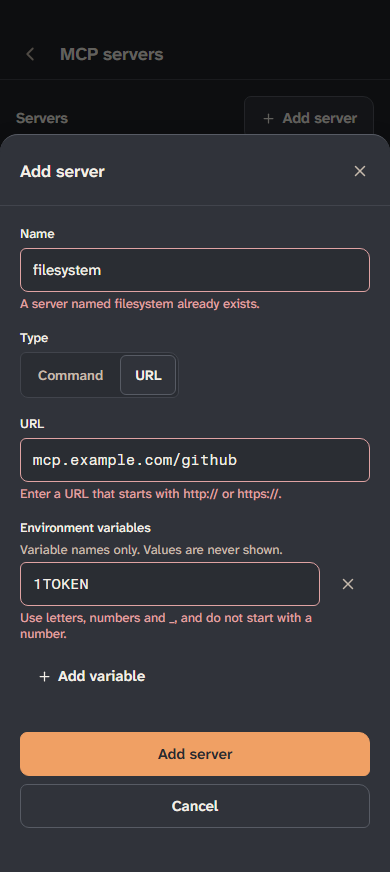
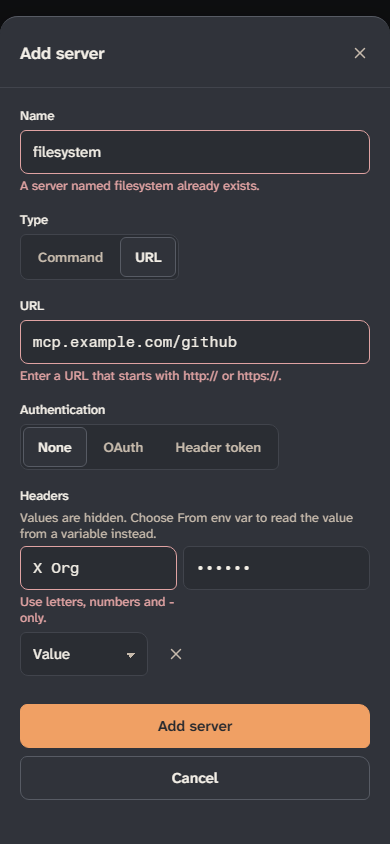
Mockups: MCP server edit form and OAuth sign-in states

diff --git a/design/remote-and-settings/app.js b/design/remote-and-settings/app.js
@@ -62,13 +62,8 @@
         { id: 'no-web', name: 'no-web', builtin: false, tools: TOOLS.filter((t) => !t.startsWith('web_')) },
       ],
       appr: { read_file: 'allow', list_files: 'allow', search: 'allow', edit_file: 'ask', write_file: 'ask', run_command: 'ask', web_fetch: 'deny', web_search: 'allow' } },
-    srvOpen: new Set(), srvTry: false, envs: [''], view: '',
-    servers: [
-      { id: 'filesystem', name: 'filesystem', kind: 'cmd', cmd: 'npx', args: '-y @modelcontextprotocol/server-filesystem /home/maya/projects/garden-api', on: true, error: '', tools: [['read_text_file', true], ['list_directory', true], ['search_files', true], ['edit_file', false]] },
-      { id: 'github', name: 'github', kind: 'url', url: 'https://mcp.example.com/github', on: true, error: '', tools: [['list_issues', true], ['get_pull_request', true], ['create_issue_comment', false]] },
-      { id: 'garden-api', name: 'garden-api', kind: 'cmd', cmd: 'node', args: './tools/garden-mcp.js', on: true, error: "Exited with code 1: Cannot find module './tools/garden-mcp.js'", tools: [] },
-      { id: 'sqlite', name: 'sqlite', kind: 'cmd', cmd: 'uvx', args: 'mcp-server-sqlite --db-path ./garden.db', on: false, error: '', tools: [['query', true], ['list_tables', true]] },
-    ],
+    srvOpen: new Set(), srvTry: false, envs: [], view: '',
+    servers: mkServers(), toks: [{ n: '', m: 'value', v: '' }], hdrs: [],
     skillsNone: false,
     skills: [
       { id: 'release-notes', name: 'release-notes', desc: 'Draft release notes from the merged pull requests.', where: 'Project', dir: '.claude/skills', on: true },
@@ -191,39 +186,113 @@
       sec('Tools', TOOLS.map((t) => chk(x.tools.includes(t), t, 'tsTool', t, x.builtin)).join('')) +
       (x.builtin ? '' : `<div class="actions">${btn('Delete toolset', { kind: 'danger', icon: 'trash-2', act: 'dlg', arg: 'delTs:' + x.id, disabled: isMain })}${isMain ? '<span class="hint">Main chat uses this toolset. Choose another one first.</span>' : ''}</div>`);
   }
-  const srvStatus = (v) => (!v.on ? 'stopped' : v.error ? 'error' : 'running');
+  function ent(n, m, v) { return { n, m, v }; }
+  const VAR_RE = /^[A-Za-z_][A-Za-z0-9_]*$/, HDR_RE = /^[A-Za-z0-9-]+$/;
+  const VAR_MSG = 'Use letters, numbers and _, and do not start with a number.';
+  function mkServers() {
+    return [
+      { id: 'filesystem', name: 'filesystem', kind: 'cmd', cmd: 'npx', args: '-y @modelcontextprotocol/server-filesystem /home/maya/projects/garden-api', cwd: '/home/maya/projects/garden-api', env: [ent('LOG_LEVEL', 'value', 'info'), ent('API_TOKEN', 'var', 'GARDEN_TOKEN')], timeout: 60, on: true, error: '', tools: [['read_text_file', true], ['list_directory', true], ['search_files', true], ['edit_file', false]] },
+      { id: 'github', name: 'github', kind: 'url', url: 'https://mcp.example.com/github', auth: 'oauth', o: 'in', account: 'maya@example.com', hdr: [ent('X-Org', 'value', 'garden')], tok: null, timeout: 30, on: true, error: '', tools: [['list_issues', true], ['get_pull_request', true], ['create_issue_comment', false]] },
+      { id: 'docs', name: 'docs', kind: 'url', url: 'https://mcp.example.com/docs', auth: 'oauth', o: 'needed', account: '', hdr: [], tok: null, timeout: 60, on: true, error: '', tools: [] },
+      { id: 'garden-api', name: 'garden-api', kind: 'cmd', cmd: 'node', args: './tools/garden-mcp.js', cwd: '', env: [], timeout: 60, on: true, error: "Exited with code 1: Cannot find module './tools/garden-mcp.js'", tools: [] },
+      { id: 'sqlite', name: 'sqlite', kind: 'cmd', cmd: 'uvx', args: 'mcp-server-sqlite --db-path ./garden.db', cwd: '', env: [], timeout: 60, on: false, error: '', tools: [['query', true], ['list_tables', true]] },
+    ];
+  }
+  const isOauth = (v) => v.kind === 'url' && v.auth === 'oauth';
+  const srvStatus = (v) => (!v.on ? 'stopped' : v.error ? 'error' : isOauth(v) ? (v.o === 'in' ? 'running' : v.o === 'expired' ? 'expired' : 'needed') : 'running');
   const srvLine = (v) => (v.kind === 'url' ? v.url : (v.cmd + ' ' + (v.args || '')).trim());
   function pageMcp() {
     const cards = M.servers.map((v) => {
       const st = srvStatus(v), open = M.srvOpen.has(v.id);
-      const pl = st === 'running' ? pill('Running', 'ok') : st === 'error' ? pill('Error', 'danger') : pill('Stopped', 'off');
+      const pl = st === 'running' ? pill('Running', 'ok') : st === 'error' ? pill('Error', 'danger') : st === 'needed' ? pill('Sign-in needed', 'attn') : st === 'expired' ? pill('Sign-in expired', 'attn') : pill('Stopped', 'off');
+      const signBtn = (st === 'needed' && v.o !== 'waiting') ? btn('Sign in', { kind: 'primary', act: 'srvSignIn', arg: v.id }) : st === 'expired' ? btn('Sign in again', { kind: 'primary', act: 'srvSignIn', arg: v.id }) : '';
       let body = '';
       if (st === 'error') body += `<div class="srv-err">${ic('circle-alert', 15)}<span>${v.error}</span></div>`;
+      if (st === 'needed' && v.o === 'waiting') body += `<div class="srv-wait">${ic('loader', 15, 'spin')}<span class="grow">Waiting for sign-in in your browser</span>${btn('Cancel', { act: 'srvCancel', arg: v.id })}</div>`;
       if (open) {
-        body += st === 'running' ? (v.tools.map(([n, on]) => `<div class="mrow"><div class="grow mono" style="font-size:13.6px">${n}</div>${sw(on, 'Tool ' + n, 'srvTool', false, v.id + '|' + n)}</div>`).join('') || '<div class="srv-note">The server has not listed any tools.</div>')
-          : `<div class="srv-note">${st === 'error' ? 'No tools are listed while the server has an error.' : 'Turn the server on to list its tools.'}</div>`;
+        if (st === 'running') {
+          if (isOauth(v)) body += `<div class="srv-wait">${ic('circle-check', 15)}<span class="grow">${v.account ? 'Signed in as <b>' + v.account + '</b>' : 'Signed in'}</span>${btn('Sign out', { act: 'srvSignOut', arg: v.id })}</div>`;
+          body += (v.tools.map(([n, on]) => `<div class="mrow"><div class="grow mono" style="font-size:13.6px">${n}</div>${sw(on, 'Tool ' + n, 'srvTool', false, v.id + '|' + n)}</div>`).join('') || '<div class="srv-note">The server has not listed any tools.</div>');
+        } else {
+          body += `<div class="srv-note">${{ error: 'No tools are listed while the server has an error.', needed: 'Sign in to list its tools.', expired: 'Tools are not available until you sign in again.', stopped: 'Turn the server on to list its tools.' }[st]}</div>`;
+        }
       }
-      return `<div class="pcard"><div class="srv-h"><button class="srv-main" aria-expanded="${open}" ${A('srvOpen', v.id)}>${ic(open ? 'chevron-down' : 'chevron-right', 16)}<span class="grow"><div class="t">${v.name}</div><div class="s mono">${srvLine(v)}</div></span></button>${pl}${sw(v.on, 'Server ' + v.name, 'srvOn', false, v.id)}</div>${body}</div>`;
+      return `<div class="pcard"><div class="srv-h"><button class="srv-main" aria-expanded="${open}" ${A('srvOpen', v.id)}>${ic(open ? 'chevron-down' : 'chevron-right', 16)}<span class="grow"><div class="t">${v.name}</div><div class="s mono">${srvLine(v)}</div></span></button>${pl}${signBtn}${btn('Edit', { cls: 'quiet', act: 'editSrv', arg: v.id })}${sw(v.on, 'Server ' + v.name, 'srvOn', false, v.id)}</div>${body}</div>`;
     }).join('');
     return sec('Servers', cards, btn('Add server', { icon: 'plus', act: 'addSrv' }));
   }
-  function srvErrors() {
-    const f = M.f, e = { name: '', cmd: '', url: '', env: M.envs.map(() => '') };
-    const n = f.sname.trim();
-    if (n || M.srvTry) e.name = !n ? 'Enter a name.' : !NAME_RE.test(n) ? 'Use letters, numbers, - and _ only.' : M.servers.some((x) => x.name === n) ? `A server named ${n} already exists.` : '';
-    if (f.skind === 'cmd') { if (M.srvTry && !f.scmd.trim()) e.cmd = 'Enter a command.'; }
-    else { const u = f.surl.trim(); if (u || M.srvTry) e.url = !u ? 'Enter a URL.' : /^https?:\/\/[^\s/]+\S*$/.test(u) ? '' : 'Enter a URL that starts with http:// or https://.'; }
-    M.envs.forEach((v, i) => { const t = v.trim(); if (t && !/^[A-Za-z_][A-Za-z0-9_]*$/.test(t)) e.env[i] = 'Use letters, numbers and _, and do not start with a number.'; });
+  /* server form (add and edit share it) */
+  function loadForm(v) {
+    const f = M.f, cp = (l) => (l || []).map((e) => ({ ...e }));
+    f.sname = v ? v.name : ''; f.skind = v ? v.kind : 'cmd'; f.scmd = (v && v.cmd) || ''; f.sargs = (v && v.args) || ''; f.scwd = (v && v.cwd) || '';
+    f.surl = (v && v.url) || ''; f.sauth = (v && v.auth) || 'none'; f.stimeout = String(v ? v.timeout : 60);
+    M.envs = cp(v && v.env); M.hdrs = cp(v && v.hdr); M.toks = [v && v.tok ? { ...v.tok } : ent('', 'value', '')];
+  }
+  function formToServer() {
+    const f = M.f, clean = (l) => l.filter((e) => e.n.trim() || e.v.trim()).map((e) => ({ n: e.n.trim(), m: e.m, v: e.v.trim() }));
+    const o = { name: f.sname.trim(), kind: f.skind, timeout: +f.stimeout };
+    if (f.skind === 'cmd') return Object.assign(o, { cmd: f.scmd.trim(), args: f.sargs.trim(), cwd: f.scwd.trim(), env: clean(M.envs) });
+    return Object.assign(o, { url: f.surl.trim(), auth: f.sauth, hdr: clean(M.hdrs), tok: f.sauth === 'token' ? { n: '', m: M.toks[0].m, v: M.toks[0].v.trim() } : null });
+  }
+  function entErr(en, named, nameRe, nameMsg) {
+    const e = { n: '', v: '' }, v = en.v.trim(), n = en.n.trim();
+    if (named && !n && !v) return e;
+    if (named) e.n = !n ? 'Enter a name.' : !nameRe.test(n) ? nameMsg : '';
+    if (en.m === 'var') e.v = !v ? 'Enter a variable name.' : !VAR_RE.test(v) ? VAR_MSG : '';
+    else e.v = !v ? 'Enter a value.' : '';
     return e;
   }
+  function srvErrors(all) {
+    const f = M.f, self = M.dlg && M.dlg.edit;
+    const e = { name: '', cmd: '', url: '', timeout: '', env: M.envs.map((x) => entErr(x, true, VAR_RE, VAR_MSG)), hdr: M.hdrs.map((x) => entErr(x, true, HDR_RE, 'Use letters, numbers and - only.')), tok: entErr(M.toks[0], false) };
+    const n = f.sname.trim();
+    e.name = !n ? 'Enter a name.' : !NAME_RE.test(n) ? 'Use letters, numbers, - and _ only.' : M.servers.some((x) => x.name === n && x.id !== self) ? `A server named ${n} already exists.` : '';
+    if (f.skind === 'cmd') { if (!f.scmd.trim()) e.cmd = 'Enter a command.'; }
+    else { const u = f.surl.trim(); e.url = !u ? 'Enter a URL.' : /^https?:\/\/[^\s/]+\S*$/.test(u) ? '' : 'Enter a URL that starts with http:// or https://.'; }
+    const t = f.stimeout.trim(); e.timeout = !t ? 'Enter a number of seconds.' : !/^\d+$/.test(t) || +t < 1 || +t > 600 ? 'Enter a whole number of seconds from 1 to 600.' : '';
+    if (f.skind === 'cmd') { e.hdr = []; e.tok = { n: '', v: '' }; } else { e.env = []; }
+    if (f.skind === 'url' && f.sauth !== 'token') e.tok = { n: '', v: '' };
+    if (!all) { // required-field messages wait until the owner has tried to save
+      const q = (s) => (s.startsWith('Enter a') && !s.startsWith('Enter a URL that') && !s.startsWith('Enter a whole') ? '' : s);
+      e.name = q(e.name); e.cmd = q(e.cmd); e.url = q(e.url); e.timeout = q(e.timeout);
+      [...e.env, ...e.hdr, e.tok].forEach((x) => { x.n = q(x.n); x.v = q(x.v); });
+    }
+    return e;
+  }
+  const hasErr = (e) => !!(e.name || e.cmd || e.url || e.timeout || e.tok.n || e.tok.v || [...e.env, ...e.hdr].some((x) => x.n || x.v));
+  function syncEdit() {
+    const id = M.dlg && M.dlg.edit;
+    if (!id || hasErr(srvErrors(true))) return;
+    const s2 = M.servers.find((q) => q.id === id), fresh = formToServer();
+    if (fresh.kind === 'url' && fresh.auth === 'oauth' && !(s2.kind === 'url' && s2.auth === 'oauth')) { s2.o = 'needed'; s2.account = ''; }
+    Object.assign(s2, fresh);
+  }
+  const errLine = (t) => (t ? `<div class="hint errtxt">${t}</div>` : '');
+  function kvRows(kind, list, errs, named, namePh) {
+    return list.map((en, i) => {
+      const er = errs[i] || { n: '', v: '' }, vm = en.m === 'value';
+      const nm = named ? `<div class="field ${er.n ? 'err' : ''}" style="margin:0"><label class="sr" for="f-${kind}${i}n">Name ${i + 1}</label><input id="f-${kind}${i}n" class="input" data-k="${kind}:${i}:n" value="${en.n.replace(/"/g, '&quot;')}" placeholder="${namePh}" autocomplete="off">${errLine(er.n)}</div>` : '';
+      const val = `<div class="field ${er.v ? 'err' : ''}" style="margin:0"><label class="sr" for="f-${kind}${i}v">${vm ? 'Value' : 'Variable name'} ${i + 1}</label><input id="f-${kind}${i}v" class="input" data-k="${kind}:${i}:v" ${vm ? 'type="password"' : ''} value="${en.v.replace(/"/g, '&quot;')}" placeholder="${vm ? 'Value, hidden' : 'VAR_NAME'}" autocomplete="off">${errLine(er.v)}</div>`;
+      const src = `<select class="input srcsel" data-k="${kind}:${i}:m" aria-label="Source of ${named ? 'entry ' + (i + 1) : 'the token'}"><option value="value" ${vm ? 'selected' : ''}>Value</option><option value="var" ${vm ? '' : 'selected'}>From env var</option></select>`;
+      return `<div class="kvrow">${nm}${val}${src}${named ? iconBtn('x', 'Remove entry ' + (i + 1), 'kvDel', kind + '|' + i) : ''}</div>`;
+    }).join('');
+  }
   function addSrvDialog() {
-    const e = srvErrors(), f = M.f;
-    const env = M.envs.map((v, i) => `<div class="envrow"><div class="field ${e.env[i] ? 'err' : ''}" style="margin:0"><label class="sr" for="f-env${i}">Variable name ${i + 1}</label><input id="f-env${i}" class="input" data-k="env:${i}" value="${v.replace(/"/g, '&quot;')}" placeholder="GITHUB_TOKEN" autocapitalize="characters">${e.env[i] ? `<div class="hint errtxt">${e.env[i]}</div>` : ''}</div>${iconBtn('x', 'Remove variable ' + (i + 1), 'envDel', i)}</div>`).join('');
+    const edit = M.dlg.edit, e = srvErrors(M.srvTry || !!edit), f = M.f;
+    const cmd = field('Command', '', 'scmd', { ph: 'npx', err: e.cmd }) + field('Arguments', 'Separated by spaces.', 'sargs', { ph: '-y @modelcontextprotocol/server-filesystem .' }) +
+      field('Working folder', 'Optional.', 'scwd', { ph: '/home/maya/projects/garden-api' }) +
+      `<div class="field"><div class="lab">Environment variables</div><div class="hint">Values are hidden. Choose From env var to read the value from a variable instead.</div>${kvRows('env', M.envs, e.env, true, 'NAME')}<div>${btn('Add variable', { icon: 'plus', cls: 'quiet', act: 'envAdd' })}</div></div>`;
+    const url = field('URL', '', 'surl', { ph: 'https://mcp.example.com/github', err: e.url }) +
+      `<div class="field"><div class="lab">Authentication</div><div>${seg([['none', 'None'], ['oauth', 'OAuth'], ['token', 'Header token']], f.sauth, 'srvAuth')}</div>${f.sauth === 'oauth' ? "<div class=\"hint\">Sign in from the server's row.</div>" : ''}</div>` +
+      (f.sauth === 'token' ? `<div class="field"><div class="lab">Token</div><div class="hint">Sent in the Authorization header. Hidden.</div>${kvRows('tok', M.toks, [e.tok], false)}</div>` : '') +
+      `<div class="field"><div class="lab">Headers</div><div class="hint">Values are hidden. Choose From env var to read the value from a variable instead.</div>${kvRows('hdr', M.hdrs, e.hdr, true, 'Header-Name')}<div>${btn('Add header', { icon: 'plus', cls: 'quiet', act: 'hdrAdd' })}</div></div>`;
     const body = field('Name', '', 'sname', { sans: true, ph: 'filesystem', err: e.name }) +
-      `<div class="field"><div class="lab">Type</div><div>${seg([['cmd', 'Command'], ['url', 'URL']], f.skind, 'srvKind')}</div></div>` +
-      (f.skind === 'cmd' ? field('Command', '', 'scmd', { ph: 'npx', err: e.cmd }) + field('Arguments', 'Separated by spaces.', 'sargs', { ph: '-y @modelcontextprotocol/server-filesystem .' })
-        : field('URL', '', 'surl', { ph: 'https://mcp.example.com/github', err: e.url })) +
-      `<div class="field"><div class="lab">Environment variables</div><div class="hint">Variable names only. Values are never shown.</div>${env}<div>${btn('Add variable', { icon: 'plus', cls: 'quiet', act: 'envAdd' })}</div></div>`;
+      `<div class="field"><div class="lab">Type</div><div>${seg([['cmd', 'Command'], ['url', 'URL']], f.skind, 'srvKind')}</div></div>` + (f.skind === 'cmd' ? cmd : url) +
+      field('Request timeout', 'Seconds.', 'stimeout', { ph: '60', err: e.timeout });
+    if (edit) {
+      const cur = M.servers.find((q) => q.id === edit);
+      return dlgShell(`Edit ${cur.name}`, body, `${btn('Remove server', { kind: 'danger', icon: 'trash-2', act: 'dlg', arg: 'delSrv:' + edit })}<span class="grow"></span>${btn('Done', { kind: 'primary', act: 'close' })}`);
+    }
     return dlgShell('Add server', body, `${btn('Cancel', { act: 'close' })}${btn('Add server', { kind: 'primary', act: 'srvAdd' })}`);
   }
   function pageSkills() {
@@ -470,6 +539,10 @@
         `${btn('Cancel', { act: 'close' })}${btn('Regenerate and clear pairings', { kind: 'danger', icon: 'trash-2', act: 'doRegen' })}`);
     }
     if (d.type === 'addSrv') return addSrvDialog();
+    if (d.type === 'delSrv') {
+      const x = M.servers.find((v) => v.id === d.id);
+      return dlgShell(`Remove ${x.name}?`, `<p style="margin:0">The server ${x.name} and its settings are removed. Its tools are no longer available.</p>`, `${btn('Cancel', { act: 'editSrv', arg: x.id })}${btn(`Remove ${x.name}`, { kind: 'danger', icon: 'trash-2', act: 'doDelSrv' })}`);
+    }
     if (d.type === 'delTs') {
       const x = M.tl.sets.find((v) => v.id === d.id);
       return dlgShell(`Delete ${x.name}?`, `<p style="margin:0">The toolset ${x.name} is removed from the list.</p>`, `${btn('Cancel', { act: 'close' })}${btn(`Delete ${x.name}`, { kind: 'danger', icon: 'trash-2', act: 'doDelTs' })}`);
@@ -717,7 +790,7 @@
 
   const VIEWS = {
     tools: [['tools-list', 'Toolsets'], ['tools-editor', 'Toolset editor'], ['tools-builtin', 'Built-in toolset'], ['tools-error', 'Name error']],
-    mcp: [['mcp-list', 'Server list'], ['mcp-expanded', 'Expanded server'], ['mcp-stopped', 'Stopped server'], ['mcp-error', 'Error server'], ['mcp-add', 'Add server'], ['mcp-add-error', 'Add server, errors']],
+    mcp: [['mcp-list', 'Server list'], ['mcp-expanded', 'Expanded server'], ['mcp-stopped', 'Stopped server'], ['mcp-error', 'Error server'], ['mcp-waiting', 'Waiting for sign-in'], ['mcp-signedin', 'Signed in'], ['mcp-expired', 'Sign-in expired'], ['mcp-add', 'Add server'], ['mcp-add-error', 'Add server, errors'], ['mcp-edit-cmd', 'Edit, command'], ['mcp-edit-url', 'Edit, URL'], ['mcp-edit-errors', 'Edit, errors'], ['mcp-remove', 'Remove server']],
     skills: [['skills-list', 'Skills'], ['skills-empty', 'None found']],
   };
   const curPage = () => (S.screen !== 'settings' ? '' : ph() ? S.ppage : S.page);
@@ -729,9 +802,17 @@
     if (v === 'tools-error') { ACT.openTs('no-web'); M.f.tsName = 'all'; }
     if (v === 'mcp-expanded') M.srvOpen.add('filesystem');
     if (v === 'mcp-stopped') M.srvOpen.add('sqlite');
+    if (v.startsWith('mcp-')) M.servers = mkServers();
     if (v === 'mcp-error') M.srvOpen.add('garden-api');
+    if (v === 'mcp-waiting') M.servers.find((q) => q.id === 'docs').o = 'waiting';
+    if (v === 'mcp-signedin') M.srvOpen.add('github');
+    if (v === 'mcp-expired') { M.servers.find((q) => q.id === 'github').o = 'expired'; M.srvOpen.add('github'); }
     if (v === 'mcp-add' || v === 'mcp-add-error') ACT.addSrv();
-    if (v === 'mcp-add-error') { Object.assign(M.f, { sname: 'filesystem', skind: 'url', surl: 'mcp.example.com/github' }); M.envs = ['1TOKEN']; M.srvTry = true; }
+    if (v === 'mcp-add-error') { Object.assign(M.f, { sname: 'filesystem', skind: 'url', surl: 'mcp.example.com/github', sauth: 'none', stimeout: '0' }); M.hdrs = [ent('X Org', 'value', 'garden')]; M.srvTry = true; }
+    if (v === 'mcp-edit-cmd') ACT.editSrv('filesystem');
+    if (v === 'mcp-edit-url') ACT.editSrv('github');
+    if (v === 'mcp-edit-errors') { ACT.editSrv('github'); Object.assign(M.f, { sauth: 'token', stimeout: '0' }); M.toks = [ent('', 'var', '')]; M.hdrs = [ent('X Org', 'value', 'garden'), ent('X-Team', 'var', '1TEAM')]; }
+    if (v === 'mcp-remove') M.dlg = { type: 'delSrv', id: 'filesystem' };
     if (v === 'skills-empty') M.skillsNone = true;
     M.view = v;
   }
@@ -749,18 +830,24 @@
     srvOn: (v) => { const x = M.servers.find((q) => q.id === v); x.on = !x.on; },
     srvTool: (v) => { const [id, n] = v.split('|'); const t = M.servers.find((q) => q.id === id).tools.find((q) => q[0] === n); t[1] = !t[1]; },
     skillOn: (v) => { const x = M.skills.find((q) => q.id === v); x.on = !x.on; },
-    addSrv: () => { M.f.sname = M.f.scmd = M.f.sargs = M.f.surl = ''; M.f.skind = 'cmd'; M.envs = ['']; M.srvTry = false; openDlg({ type: 'addSrv' }); },
+    addSrv: () => { loadForm(null); M.srvTry = false; openDlg({ type: 'addSrv' }); },
+    editSrv: (v) => { loadForm(M.servers.find((q) => q.id === v)); M.srvTry = true; openDlg({ type: 'addSrv', edit: v }); },
     srvKind: (v) => { M.f.skind = v; },
-    envAdd: () => { M.envs.push(''); },
-    envDel: (v) => { M.envs.splice(+v, 1); if (!M.envs.length) M.envs = ['']; },
+    srvAuth: (v) => { M.f.sauth = v; },
+    envAdd: () => { M.envs.push(ent('', 'value', '')); },
+    hdrAdd: () => { M.hdrs.push(ent('', 'value', '')); },
+    kvDel: (v) => { const [k, i] = v.split('|'); (k === 'env' ? M.envs : M.hdrs).splice(+i, 1); },
     srvAdd: () => {
       M.srvTry = true;
-      const e = srvErrors();
-      if (e.name || e.cmd || e.url || e.env.some(Boolean)) return;
-      const f = M.f, n = f.sname.trim();
-      M.servers.push(f.skind === 'cmd' ? { id: n, name: n, kind: 'cmd', cmd: f.scmd.trim(), args: f.sargs.trim(), on: true, error: '', tools: [] } : { id: n, name: n, kind: 'url', url: f.surl.trim(), on: true, error: '', tools: [] });
+      if (hasErr(srvErrors(true))) return;
+      const n = M.f.sname.trim();
+      M.servers.push(Object.assign({ id: n, on: true, error: '', tools: [], o: 'needed', account: '' }, formToServer()));
       M.dlg = null; M.srvTry = false;
     },
+    doDelSrv: () => { const id = M.dlg.id; M.servers = M.servers.filter((q) => q.id !== id); M.srvOpen.delete(id); M.dlg = null; },
+    srvSignIn: (v) => { const x = M.servers.find((q) => q.id === v); x.o = 'waiting'; later(() => { if (x.o === 'waiting') { x.o = 'in'; x.account = x.id === 'github' ? 'maya@example.com' : ''; x.tools = x.tools.length ? x.tools : [['search_docs', true], ['get_page', true]]; } }, 2500); },
+    srvCancel: (v) => { M.servers.find((q) => q.id === v).o = 'needed'; },
+    srvSignOut: (v) => { M.servers.find((q) => q.id === v).o = 'needed'; },
     sub: (v) => { S.sub = v; M.f.licq = ''; },
     subBack: () => { S.sub = ''; },
     coreMode: (v) => { M.coreMode = v; },
@@ -856,17 +943,20 @@
     else if (ROUTE[a]) ROUTE[a](v, el);
     else if (ACT[a]) ACT[a](v);
     else return;
+    syncEdit();
     writeHash();
     render();
   });
   document.addEventListener('input', (ev) => {
     const k = ev.target.dataset && ev.target.dataset.k;
     if (!k) return;
-    if (k.startsWith('env:')) { M.envs[+k.slice(4)] = ev.target.value; render(); return; }
+    const kv = /^(env|hdr|tok):(\d+):([nvm])$/.exec(k);
+    if (kv) { const en = { env: M.envs, hdr: M.hdrs, tok: M.toks }[kv[1]][+kv[2]]; en[kv[3]] = ev.target.value; if (kv[3] === 'm') en.v = ''; syncEdit(); render(); return; }
     M.f[k] = ev.target.value;
     if (k === 'tsName' && !tsError()) { M.tl.sets.find((x) => x.id === M.tl.edit).name = M.f.tsName.trim(); }
+    syncEdit();
     // fields that gate a button or message re-render in place
-    if (['token', 'addCode', 'pass1', 'pass2', 'keySecret', 'apiKey', 'pairName', 'hostname', 'licq', 'tsName', 'sname', 'scmd', 'sargs', 'surl'].includes(k)) render();
+    if (['token', 'addCode', 'pass1', 'pass2', 'keySecret', 'apiKey', 'pairName', 'hostname', 'licq', 'tsName', 'sname', 'scmd', 'sargs', 'surl', 'scwd', 'stimeout'].includes(k)) render();
   });
   document.addEventListener('change', (ev) => {
     const k = ev.target.dataset && ev.target.dataset.k;

diff --git a/design/remote-and-settings/style.css b/design/remote-and-settings/style.css
@@ -506,3 +506,23 @@ button.wi:hover:not(:disabled) { background: var(--w-hover); }
 .skrow .where .tag { margin-left: 0; font: 400 11px/16px var(--mono); }
 .dirs { list-style: none; margin: 8px 0; padding: 0; }
 .dirs li { padding: 3px 0; color: var(--ink); font-size: 13px; }
+
+/* MCP servers: sign-in rows and the server form */
+.srv-wait { display: flex; align-items: center; gap: 8px; padding: 8px 12px; border-top: 1px solid var(--seam); font-size: 13px; }
+.srv-wait .grow { flex: 1; min-width: 0; overflow-wrap: anywhere; }
+.srv-wait > .ic { color: var(--muted); }
+.kvrow { display: flex; flex-wrap: wrap; gap: 6px; align-items: flex-start; margin-bottom: 8px; }
+.kvrow > .field { flex: 1 1 130px; }
+.kvrow > .field:nth-child(2) { flex: 1.4 1 150px; }
+.srcsel { width: auto; flex: none; min-width: 128px; }
+.dialog { display: flex; flex-direction: column; max-height: calc(100% - 32px); }
+.dialog .dbody { overflow: auto; min-height: 0; }
+.dialog > header, .dialog > footer { flex: none; }
+.phone .dialog .dbody { max-height: none; }
+.phone .dialog footer .grow:empty { display: none; }
+.phone .srv-main { flex-basis: 100%; }
+.phone .srv-h > .btn.quiet { margin-left: auto; }
+.overlay { grid-template-rows: minmax(0, 1fr); }
+.frame.desktop .overlay { padding: 16px; }
+.frame.phone .overlay { padding-top: 16px; }
+.dialog { max-height: 100%; min-height: 0; }
